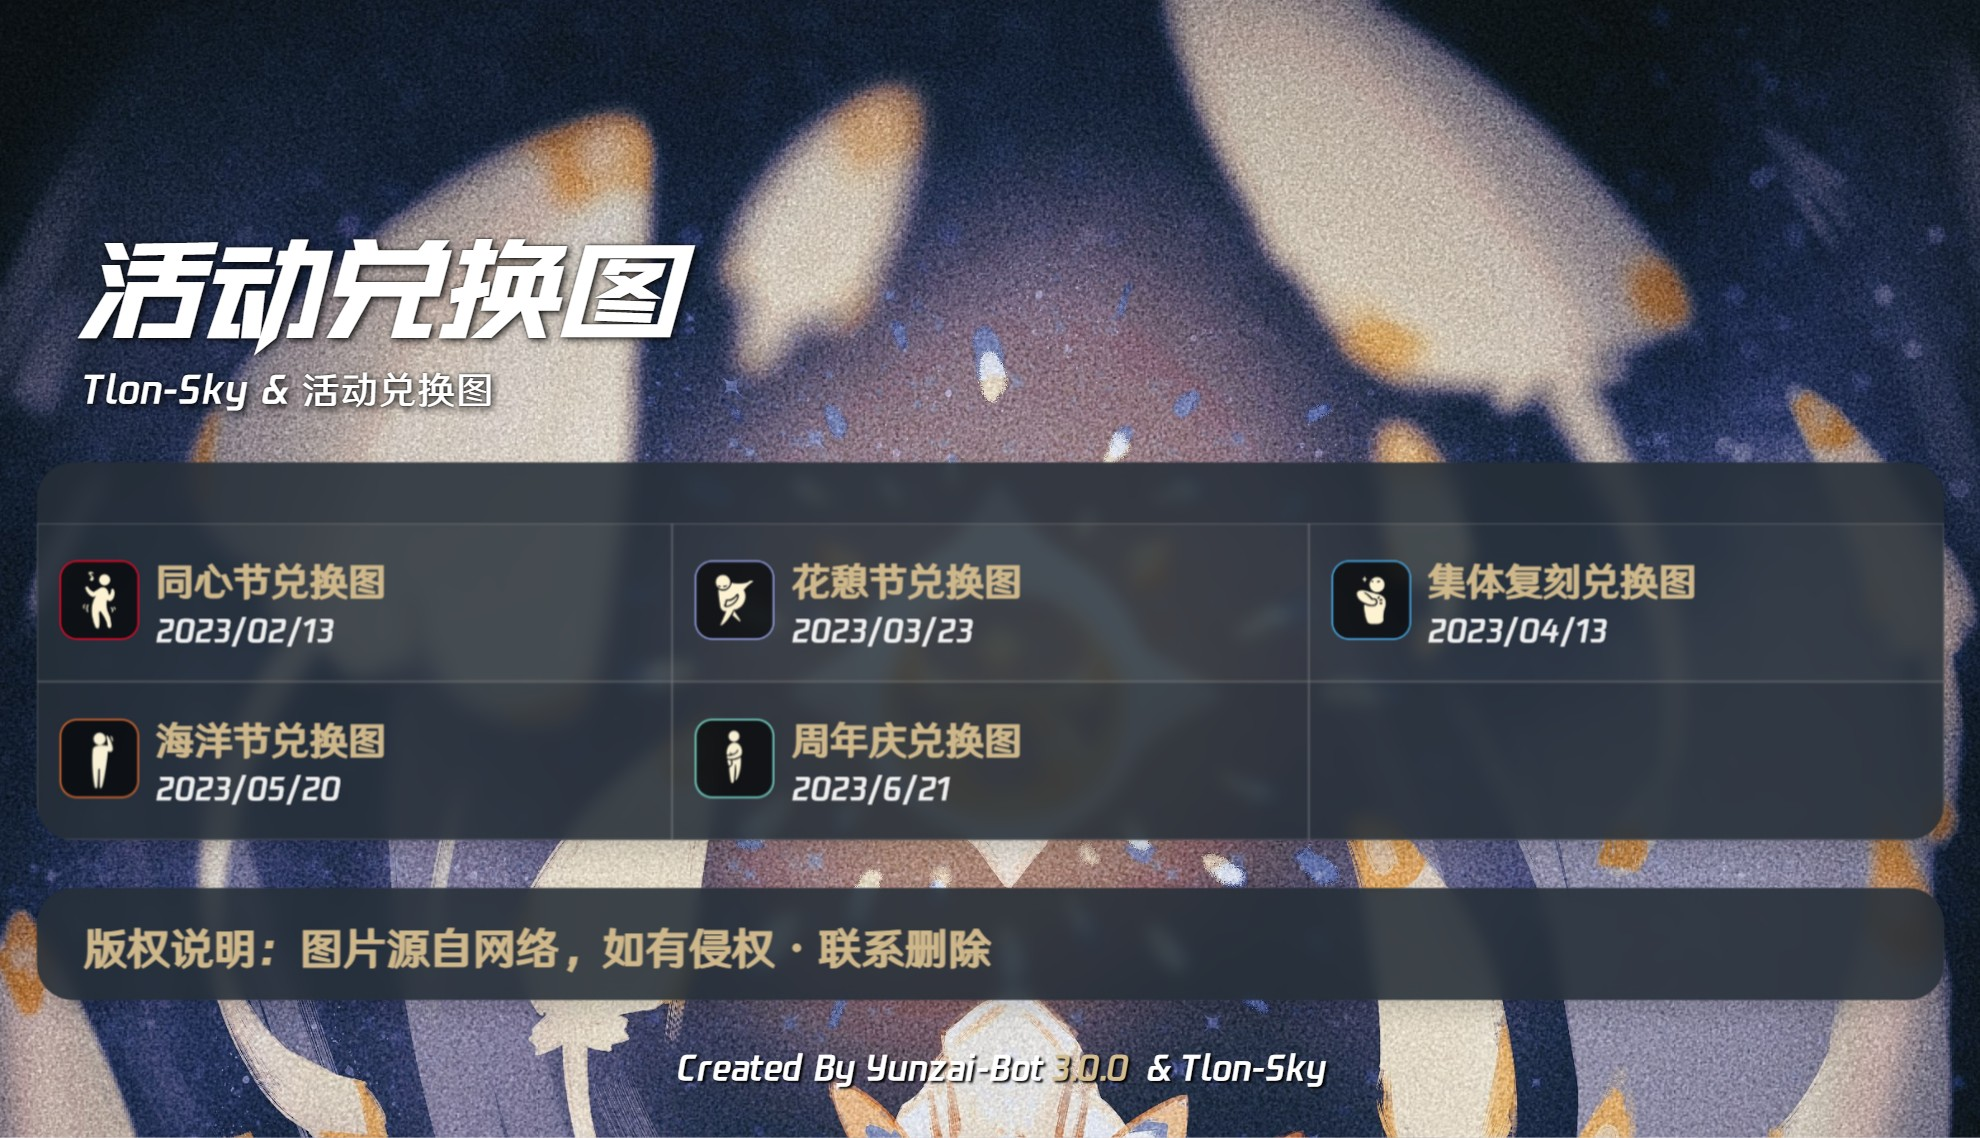
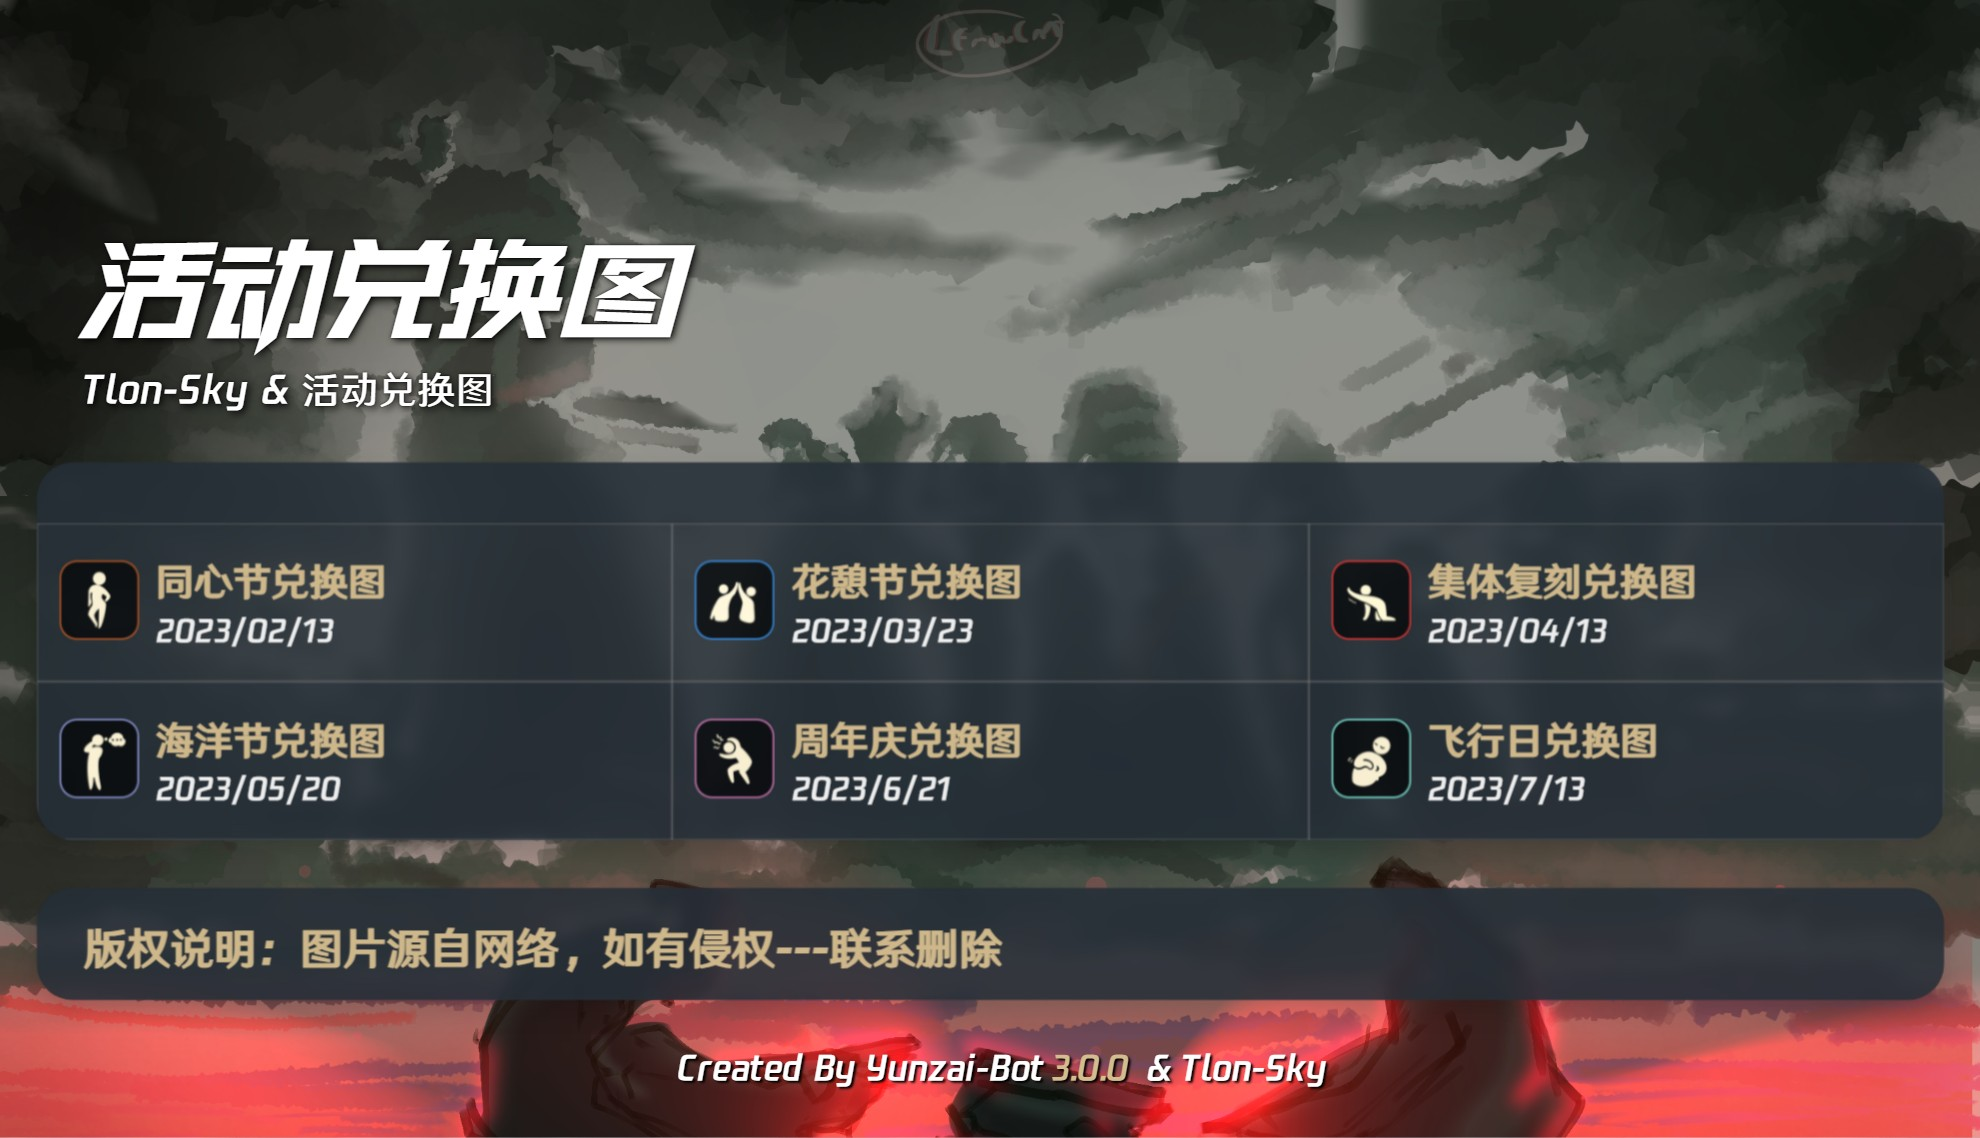
```更新飞行日兑换图```

diff --git a/apps/「光遇」活动兑换图.js b/apps/「光遇」活动兑换图.js
@@ -23,6 +23,9 @@ export class 光遇_活动兑换图 extends plugin {
         },{
           reg: /^#?周年庆兑换图$/,
           fnc: '周年庆'
+        },{
+          reg: /^#?(飞行日|彩虹日|彩虹节|缤纷飞行日)兑换图$/,
+          fnc: '缤纷飞行日'
         }
       ]
     })
@@ -61,6 +64,13 @@ export class 光遇_活动兑换图 extends plugin {
   }
   async 周年庆(e){
     const imgreply = 'plugins/Tlon-Sky/resource/活动兑换图/周年庆兑换图.png';
+    e.reply(
+      segment.at(this.e.user_id),
+      imgreply ? segment.image(imgreply) : "",
+    )
+  }
+  async 缤纷飞行日(e){
+    const imgreply = 'plugins/Tlon-Sky/resource/活动兑换图/飞行日兑换图.png';
     e.reply(
       segment.at(this.e.user_id),
       imgreply ? segment.image(imgreply) : "",

diff --git a/CHANGELOG.md b/CHANGELOG.md
@@ -1,4 +1,8 @@
-# 1.3.3
+# 1.3.4
+* 更新活动兑换图内容
+* 添加`飞行日兑换图`
+
+# 1.0.1~1.3.3
 * 添加指令`我的角色`
   * 查询身高图片版
 * 身高查询可同时查看装扮数据
@@ -6,8 +10,6 @@
 * 复刻图无需本地安装
 * 添加指令`#卸载复刻图库`
 * 添加指令`#卸载绘画图库`
-
-# 1.0.1~1.3.2
 * 新增`季节结束时间`功能
 * 更新菜单内容,修复`全图鉴参考`
 * 更新查询身高功能
